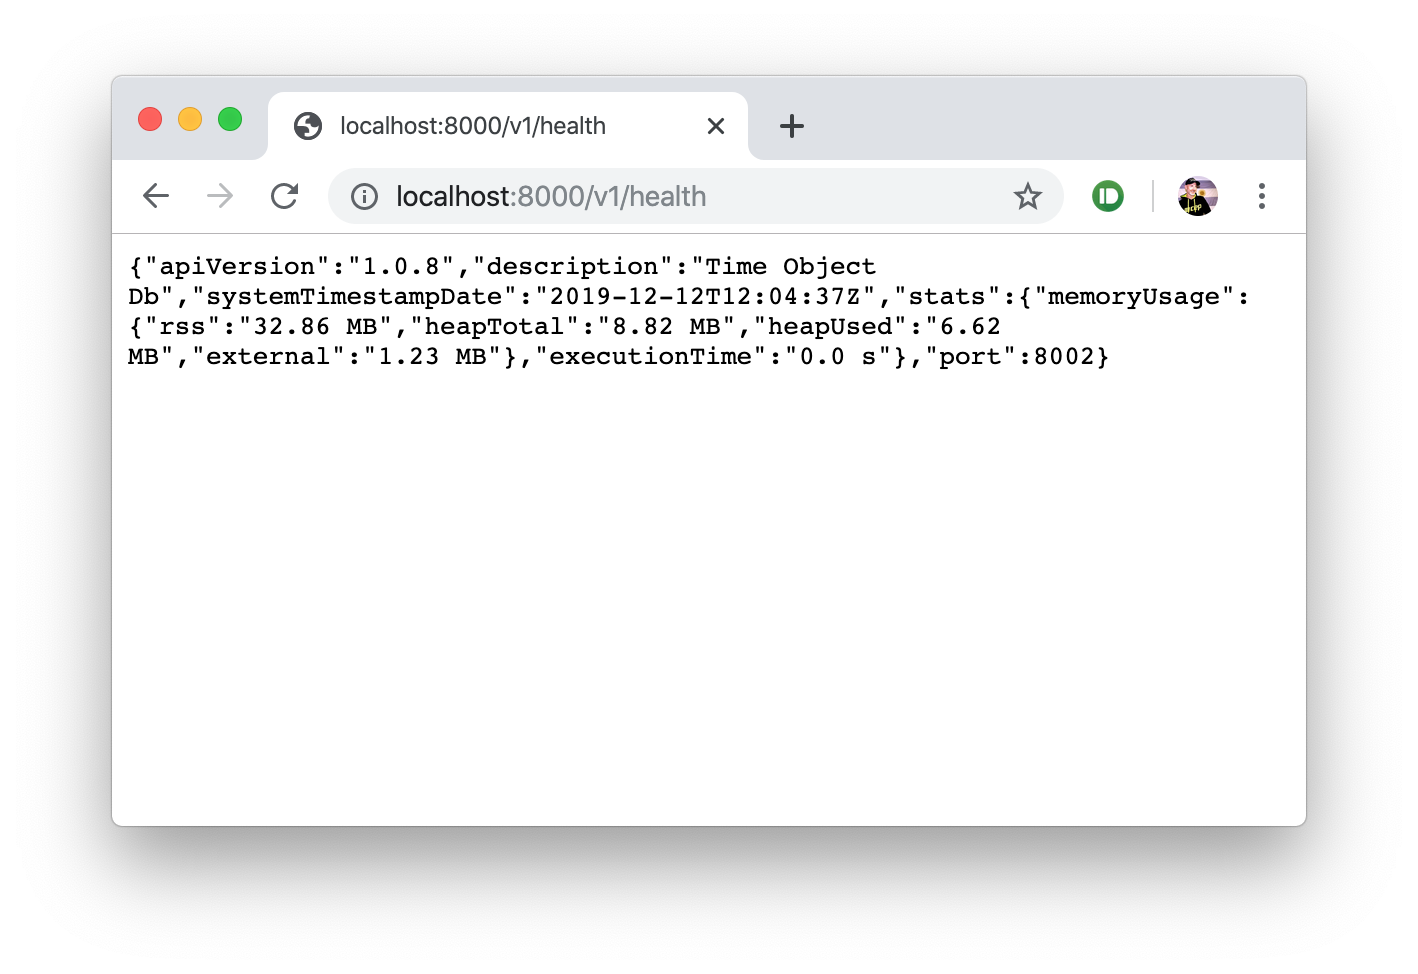
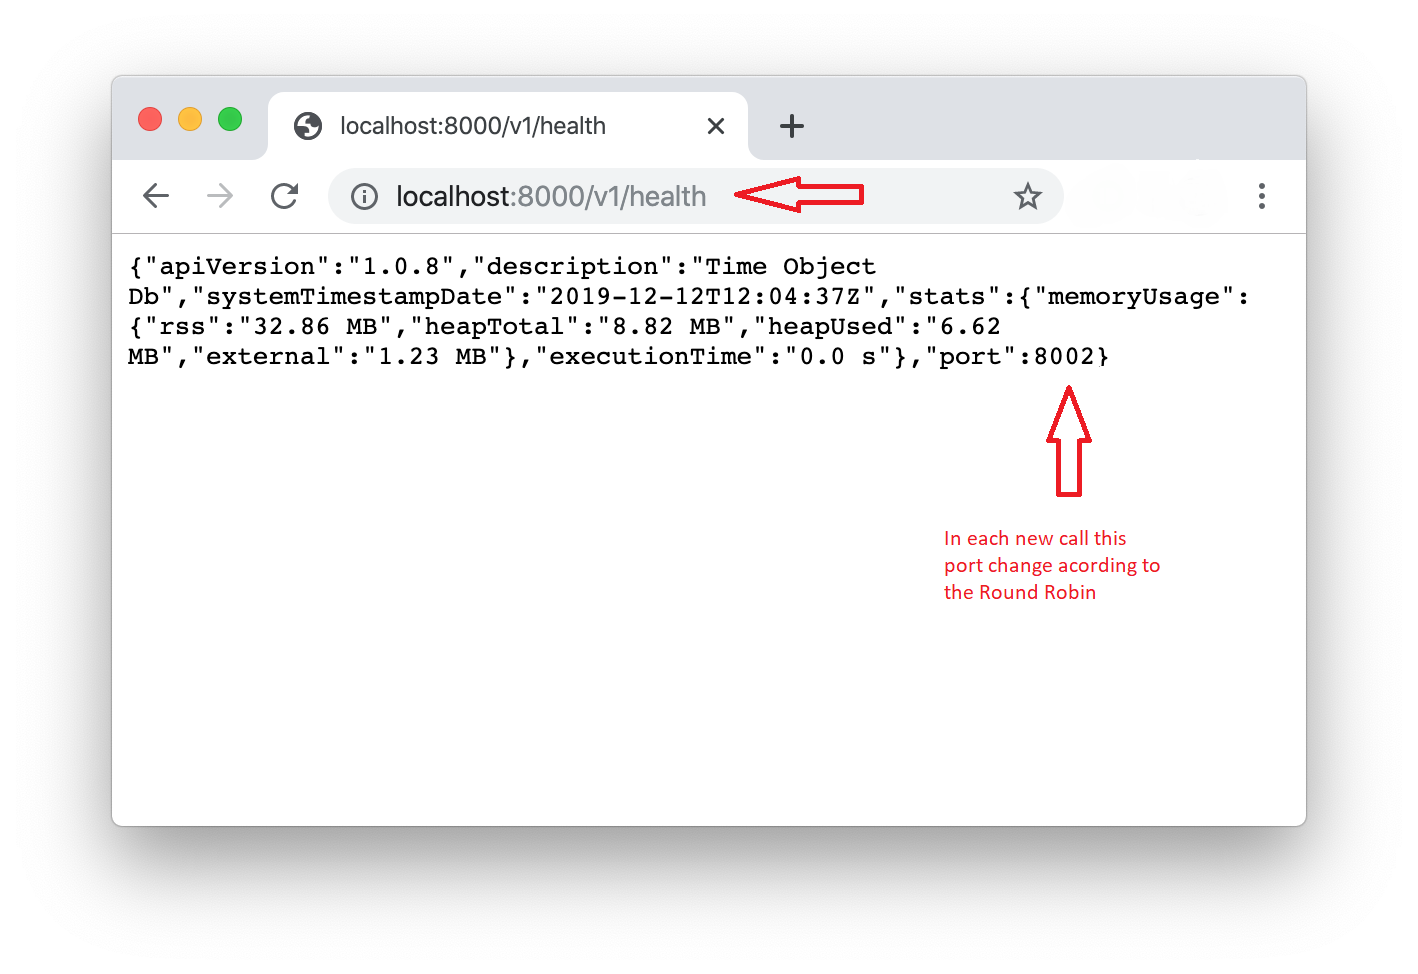
update examples

Changed region(s): [[0.6516, 0.4004, 0.8068, 0.616], [0.7447, 0.1848, 0.8688, 0.2156], [0.5275, 0.1848, 0.6206, 0.2156]]

diff --git a/README.md b/README.md
@@ -45,6 +45,8 @@ If you enamble the cluster option, see the **config.json** file, the below load 
 
 ![](doc/loadbalancer.png)
 
+![](doc/roundbin-inaction.png)
+
 ## Events:
 
 This database emit 7 events
